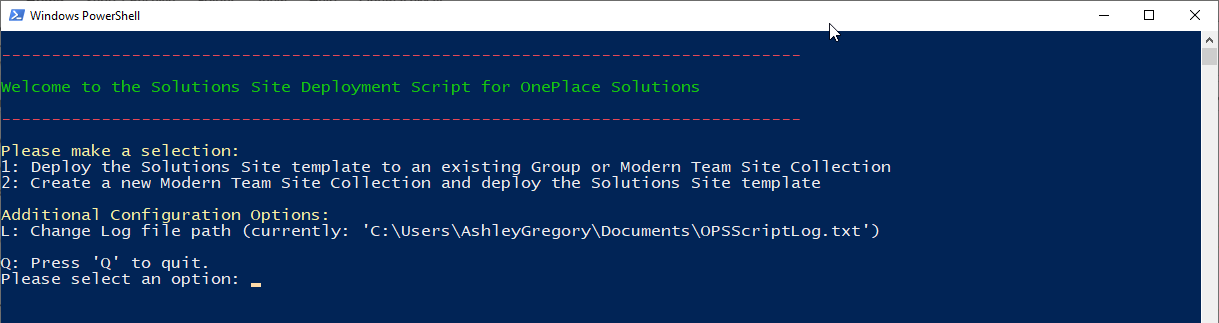
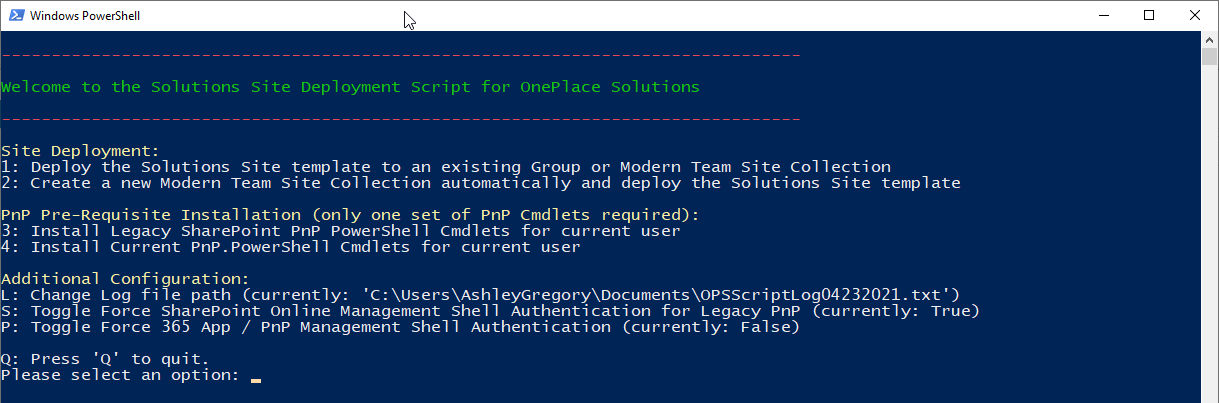
Doco
Adjusting menu option text
Removing Device Code images from doco
Updating menu.png

Changed region(s): [[0.0, 0.3406, 0.8105, 0.9598], [0.0, 0.1858, 0.6546, 0.3096], [0.0, 0.0, 1.0, 0.2167]]

diff --git a/SharePoint Online/README.md b/SharePoint Online/README.md
@@ -25,7 +25,7 @@ A script to create the required Lists in a Site Collection for licensing and oth
     Uninstall-Module 'SharePointPnPPowerShellOnline'
     ```
     
-3.  **(Multi-Tenant support)**
+3.  **(Optional Multi-Tenant / Modern Authentication support)**
 	
 	If you are working in a multi-tenanted scenario, we recommend having your Microsoft 365 Administrator grant App access to the PnP Management Shell in your 365 Tenant(s). It is recommended that you check and grant this ahead of running the script by entering this command in PowerShell and following the directions. Documentation and more information [here](https://pnp.github.io/powershell/articles/authentication.html).
     ```
@@ -86,8 +86,7 @@ If you would like the script to create the initial Site Collection for you, sele
 
 	> ![](./README-Images/sitecreationSPO.png)
 
-4.  Once the Site Collection URL has been entered (or the Site Collection has been created as part of Option 2) the script may prompt you to authenticate against the Site Collection through the PnP Management Shell. Please follow the directions from the script to copy the code into the browser, and if required consent to the PnP Management Shell. Afterwards, the script will start configuring the site for use.
-	> ![](./README-Images/pnpmanagementshelllogin.png)
+4.  Once the Site Collection URL has been entered (or the Site Collection has been created as part of Option 2) the script will start configuring the site for use.
 	> ![](./README-Images/siteconfigurationSPO.png)
 	
 5.  When configuration has completed, your Solutions Site URL, License List URL and License List ID will be displayed (these are also in the log file noted earlier, and will be visible in the Solutions Site). You may be presented with the option to automatically email these details now to OnePlace Solutions. These URLs will be kept on file for support purposes, and the License List ID will be required for provisioning your Production License.
